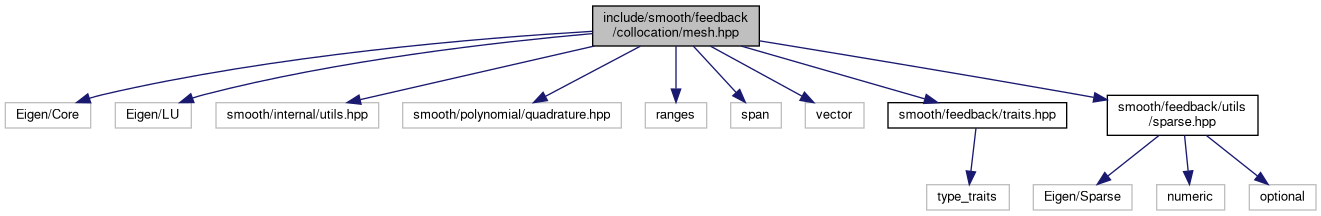
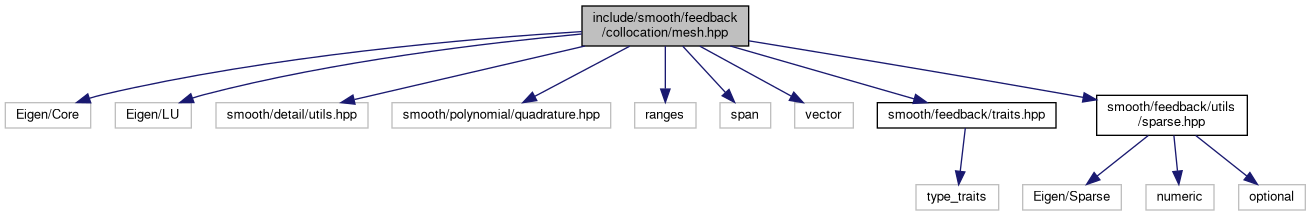
deploy: 31db0d32a921ece2edfa6fbcd71830717a5b4ad9

diff --git a/ocp__to__qp_8hpp.html b/ocp__to__qp_8hpp.html
@@ -93,28 +93,28 @@ Include dependency graph for ocp_to_qp.hpp:</div>
 <div class="dyncontent">
 <div class="center"><img src="ocp__to__qp_8hpp__incl.png" border="0" usemap="#ainclude_2smooth_2feedback_2ocp__to__qp_8hpp" alt=""/></div>
 <map name="ainclude_2smooth_2feedback_2ocp__to__qp_8hpp" id="ainclude_2smooth_2feedback_2ocp__to__qp_8hpp">
-<area shape="rect" title="Formulate optimal control problem as a quadratic program." alt="" coords="966,5,1133,47"/>
-<area shape="rect" title=" " alt="" coords="953,251,1039,278"/>
-<area shape="rect" title=" " alt="" coords="1165,169,1275,196"/>
-<area shape="rect" href="mesh_8hpp.html" title="Refinable Legendre&#45;Gauss&#45;Radau mesh of time interval [0, 1]." alt="" coords="644,169,788,196"/>
-<area shape="rect" href="mesh__function_8hpp.html" title="Evaluate transform&#45;like functions and derivatives on collocation points." alt="" coords="875,95,1072,121"/>
-<area shape="rect" href="ocp_8hpp.html" title="Optimal control problem definition." alt="" coords="1335,95,1401,121"/>
-<area shape="rect" href="qp_8hpp.html" title="Quadratic Program definition." alt="" coords="1097,95,1157,121"/>
-<area shape="rect" title=" " alt="" coords="678,251,754,278"/>
-<area shape="rect" title=" " alt="" coords="5,251,168,278"/>
-<area shape="rect" title=" " alt="" coords="192,251,411,278"/>
-<area shape="rect" title=" " alt="" coords="435,251,496,278"/>
-<area shape="rect" title=" " alt="" coords="520,251,571,278"/>
-<area shape="rect" title=" " alt="" coords="595,251,653,278"/>
-<area shape="rect" href="traits_8hpp_source.html" title=" " alt="" coords="1352,251,1531,278"/>
-<area shape="rect" href="sparse_8hpp.html" title="Sparse matrix utilities." alt="" coords="778,244,929,285"/>
-<area shape="rect" title=" " alt="" coords="1400,333,1483,360"/>
-<area shape="rect" title=" " alt="" coords="1027,333,1125,360"/>
-<area shape="rect" title=" " alt="" coords="773,333,841,360"/>
-<area shape="rect" title=" " alt="" coords="865,333,932,360"/>
-<area shape="rect" title=" " alt="" coords="994,169,1089,196"/>
-<area shape="rect" title=" " alt="" coords="1351,169,1497,196"/>
-<area shape="rect" title=" " alt="" coords="1521,169,1593,196"/>
+<area shape="rect" title="Formulate optimal control problem as a quadratic program." alt="" coords="955,5,1122,47"/>
+<area shape="rect" title=" " alt="" coords="943,251,1028,278"/>
+<area shape="rect" title=" " alt="" coords="1154,169,1265,196"/>
+<area shape="rect" href="mesh_8hpp.html" title="Refinable Legendre&#45;Gauss&#45;Radau mesh of time interval [0, 1]." alt="" coords="633,169,777,196"/>
+<area shape="rect" href="mesh__function_8hpp.html" title="Evaluate transform&#45;like functions and derivatives on collocation points." alt="" coords="864,95,1061,121"/>
+<area shape="rect" href="ocp_8hpp.html" title="Optimal control problem definition." alt="" coords="1324,95,1391,121"/>
+<area shape="rect" href="qp_8hpp.html" title="Quadratic Program definition." alt="" coords="1086,95,1146,121"/>
+<area shape="rect" title=" " alt="" coords="667,251,743,278"/>
+<area shape="rect" title=" " alt="" coords="5,251,157,278"/>
+<area shape="rect" title=" " alt="" coords="181,251,400,278"/>
+<area shape="rect" title=" " alt="" coords="424,251,485,278"/>
+<area shape="rect" title=" " alt="" coords="509,251,560,278"/>
+<area shape="rect" title=" " alt="" coords="584,251,643,278"/>
+<area shape="rect" href="traits_8hpp_source.html" title=" " alt="" coords="1341,251,1520,278"/>
+<area shape="rect" href="sparse_8hpp.html" title="Sparse matrix utilities." alt="" coords="767,244,918,285"/>
+<area shape="rect" title=" " alt="" coords="1389,333,1472,360"/>
+<area shape="rect" title=" " alt="" coords="1016,333,1115,360"/>
+<area shape="rect" title=" " alt="" coords="762,333,830,360"/>
+<area shape="rect" title=" " alt="" coords="855,333,921,360"/>
+<area shape="rect" title=" " alt="" coords="983,169,1078,196"/>
+<area shape="rect" title=" " alt="" coords="1341,169,1486,196"/>
+<area shape="rect" title=" " alt="" coords="1511,169,1583,196"/>
 </map>
 </div>
 </div><div class="textblock"><div class="dynheader">

diff --git a/mesh_8hpp.html b/mesh_8hpp.html
@@ -86,7 +86,7 @@ $(function() {
 <a href="#details">More...</a></p>
 <div class="textblock"><code>#include &lt;Eigen/Core&gt;</code><br />
 <code>#include &lt;Eigen/LU&gt;</code><br />
-<code>#include &lt;smooth/internal/utils.hpp&gt;</code><br />
+<code>#include &lt;smooth/detail/utils.hpp&gt;</code><br />
 <code>#include &lt;smooth/polynomial/quadrature.hpp&gt;</code><br />
 <code>#include &lt;ranges&gt;</code><br />
 <code>#include &lt;span&gt;</code><br />
@@ -98,20 +98,20 @@ Include dependency graph for mesh.hpp:</div>
 <div class="dyncontent">
 <div class="center"><img src="mesh_8hpp__incl.png" border="0" usemap="#ainclude_2smooth_2feedback_2collocation_2mesh_8hpp" alt=""/></div>
 <map name="ainclude_2smooth_2feedback_2collocation_2mesh_8hpp" id="ainclude_2smooth_2feedback_2collocation_2mesh_8hpp">
-<area shape="rect" title="Refinable Legendre&#45;Gauss&#45;Radau mesh of time interval [0, 1]." alt="" coords="593,5,759,47"/>
+<area shape="rect" title="Refinable Legendre&#45;Gauss&#45;Radau mesh of time interval [0, 1]." alt="" coords="582,5,749,47"/>
 <area shape="rect" title=" " alt="" coords="5,102,91,129"/>
 <area shape="rect" title=" " alt="" coords="115,102,191,129"/>
-<area shape="rect" title=" " alt="" coords="216,102,379,129"/>
-<area shape="rect" title=" " alt="" coords="403,102,621,129"/>
-<area shape="rect" title=" " alt="" coords="645,102,707,129"/>
-<area shape="rect" title=" " alt="" coords="731,102,781,129"/>
-<area shape="rect" title=" " alt="" coords="805,102,864,129"/>
-<area shape="rect" href="traits_8hpp_source.html" title=" " alt="" coords="888,102,1067,129"/>
-<area shape="rect" href="sparse_8hpp.html" title="Sparse matrix utilities." alt="" coords="1107,95,1258,136"/>
-<area shape="rect" title=" " alt="" coords="927,184,1009,211"/>
-<area shape="rect" title=" " alt="" coords="1033,184,1132,211"/>
-<area shape="rect" title=" " alt="" coords="1157,184,1225,211"/>
-<area shape="rect" title=" " alt="" coords="1249,184,1316,211"/>
+<area shape="rect" title=" " alt="" coords="216,102,368,129"/>
+<area shape="rect" title=" " alt="" coords="392,102,611,129"/>
+<area shape="rect" title=" " alt="" coords="635,102,696,129"/>
+<area shape="rect" title=" " alt="" coords="720,102,771,129"/>
+<area shape="rect" title=" " alt="" coords="795,102,853,129"/>
+<area shape="rect" href="traits_8hpp_source.html" title=" " alt="" coords="877,102,1056,129"/>
+<area shape="rect" href="sparse_8hpp.html" title="Sparse matrix utilities." alt="" coords="1097,95,1247,136"/>
+<area shape="rect" title=" " alt="" coords="916,184,999,211"/>
+<area shape="rect" title=" " alt="" coords="1023,184,1121,211"/>
+<area shape="rect" title=" " alt="" coords="1146,184,1214,211"/>
+<area shape="rect" title=" " alt="" coords="1239,184,1305,211"/>
 </map>
 </div>
 </div><div class="textblock"><div class="dynheader">

diff --git a/dyn__error_8hpp.html b/dyn__error_8hpp.html
@@ -89,21 +89,21 @@ Include dependency graph for dyn_error.hpp:</div>
 <div class="dyncontent">
 <div class="center"><img src="dyn__error_8hpp__incl.png" border="0" usemap="#ainclude_2smooth_2feedback_2collocation_2dyn__error_8hpp" alt=""/></div>
 <map name="ainclude_2smooth_2feedback_2collocation_2dyn__error_8hpp" id="ainclude_2smooth_2feedback_2collocation_2dyn__error_8hpp">
-<area shape="rect" title="Collocation dynamics constraints." alt="" coords="277,5,446,47"/>
+<area shape="rect" title="Collocation dynamics constraints." alt="" coords="271,5,441,47"/>
 <area shape="rect" title=" " alt="" coords="5,177,91,203"/>
-<area shape="rect" href="mesh_8hpp.html" title="Refinable Legendre&#45;Gauss&#45;Radau mesh of time interval [0, 1]." alt="" coords="554,95,633,121"/>
+<area shape="rect" href="mesh_8hpp.html" title="Refinable Legendre&#45;Gauss&#45;Radau mesh of time interval [0, 1]." alt="" coords="543,95,622,121"/>
 <area shape="rect" title=" " alt="" coords="115,177,191,203"/>
-<area shape="rect" title=" " alt="" coords="216,177,379,203"/>
-<area shape="rect" title=" " alt="" coords="403,177,621,203"/>
-<area shape="rect" title=" " alt="" coords="645,177,707,203"/>
-<area shape="rect" title=" " alt="" coords="731,177,781,203"/>
-<area shape="rect" title=" " alt="" coords="805,177,864,203"/>
-<area shape="rect" href="traits_8hpp_source.html" title=" " alt="" coords="888,177,1067,203"/>
-<area shape="rect" href="sparse_8hpp.html" title="Sparse matrix utilities." alt="" coords="1107,169,1258,211"/>
-<area shape="rect" title=" " alt="" coords="927,259,1009,285"/>
-<area shape="rect" title=" " alt="" coords="1033,259,1132,285"/>
-<area shape="rect" title=" " alt="" coords="1157,259,1225,285"/>
-<area shape="rect" title=" " alt="" coords="1249,259,1316,285"/>
+<area shape="rect" title=" " alt="" coords="216,177,368,203"/>
+<area shape="rect" title=" " alt="" coords="392,177,611,203"/>
+<area shape="rect" title=" " alt="" coords="635,177,696,203"/>
+<area shape="rect" title=" " alt="" coords="720,177,771,203"/>
+<area shape="rect" title=" " alt="" coords="795,177,853,203"/>
+<area shape="rect" href="traits_8hpp_source.html" title=" " alt="" coords="877,177,1056,203"/>
+<area shape="rect" href="sparse_8hpp.html" title="Sparse matrix utilities." alt="" coords="1097,169,1247,211"/>
+<area shape="rect" title=" " alt="" coords="916,259,999,285"/>
+<area shape="rect" title=" " alt="" coords="1023,259,1121,285"/>
+<area shape="rect" title=" " alt="" coords="1146,259,1214,285"/>
+<area shape="rect" title=" " alt="" coords="1239,259,1305,285"/>
 </map>
 </div>
 </div>

diff --git a/mesh__function_8hpp.html b/mesh__function_8hpp.html
@@ -96,18 +96,18 @@ Include dependency graph for mesh_function.hpp:</div>
 <area shape="rect" title="Evaluate transform&#45;like functions and derivatives on collocation points." alt="" coords="151,5,352,47"/>
 <area shape="rect" title=" " alt="" coords="5,95,100,121"/>
 <area shape="rect" title=" " alt="" coords="90,259,189,285"/>
-<area shape="rect" title=" " alt="" coords="707,95,817,121"/>
-<area shape="rect" href="mesh_8hpp.html" title="Refinable Legendre&#45;Gauss&#45;Radau mesh of time interval [0, 1]." alt="" coords="604,95,683,121"/>
+<area shape="rect" title=" " alt="" coords="701,95,812,121"/>
+<area shape="rect" href="mesh_8hpp.html" title="Refinable Legendre&#45;Gauss&#45;Radau mesh of time interval [0, 1]." alt="" coords="599,95,677,121"/>
 <area shape="rect" href="sparse_8hpp.html" title="Sparse matrix utilities." alt="" coords="176,169,327,211"/>
 <area shape="rect" title=" " alt="" coords="351,177,437,203"/>
 <area shape="rect" title=" " alt="" coords="461,177,537,203"/>
-<area shape="rect" title=" " alt="" coords="562,177,725,203"/>
-<area shape="rect" title=" " alt="" coords="749,177,967,203"/>
-<area shape="rect" title=" " alt="" coords="991,177,1053,203"/>
-<area shape="rect" title=" " alt="" coords="1077,177,1127,203"/>
-<area shape="rect" title=" " alt="" coords="1151,177,1210,203"/>
-<area shape="rect" href="traits_8hpp_source.html" title=" " alt="" coords="1234,177,1413,203"/>
-<area shape="rect" title=" " alt="" coords="1282,259,1365,285"/>
+<area shape="rect" title=" " alt="" coords="562,177,714,203"/>
+<area shape="rect" title=" " alt="" coords="738,177,957,203"/>
+<area shape="rect" title=" " alt="" coords="981,177,1042,203"/>
+<area shape="rect" title=" " alt="" coords="1066,177,1117,203"/>
+<area shape="rect" title=" " alt="" coords="1141,177,1199,203"/>
+<area shape="rect" href="traits_8hpp_source.html" title=" " alt="" coords="1223,177,1402,203"/>
+<area shape="rect" title=" " alt="" coords="1271,259,1354,285"/>
 <area shape="rect" title=" " alt="" coords="215,259,283,285"/>
 <area shape="rect" title=" " alt="" coords="307,259,374,285"/>
 </map>

diff --git a/ocp__to__nlp_8hpp.html b/ocp__to__nlp_8hpp.html
@@ -101,18 +101,18 @@ Include dependency graph for ocp_to_nlp.hpp:</div>
 <area shape="rect" href="nlp_8hpp.html" title="Nonlinear program definition." alt="" coords="85,169,147,196"/>
 <area shape="rect" href="ocp_8hpp.html" title="Optimal control problem definition." alt="" coords="369,95,436,121"/>
 <area shape="rect" title=" " alt="" coords="739,251,815,278"/>
-<area shape="rect" title=" " alt="" coords="840,251,1003,278"/>
-<area shape="rect" title=" " alt="" coords="1027,251,1245,278"/>
+<area shape="rect" title=" " alt="" coords="840,251,992,278"/>
+<area shape="rect" title=" " alt="" coords="1016,251,1235,278"/>
 <area shape="rect" title=" " alt="" coords="496,251,557,278"/>
 <area shape="rect" title=" " alt="" coords="581,251,632,278"/>
 <area shape="rect" title=" " alt="" coords="656,251,715,278"/>
 <area shape="rect" href="traits_8hpp_source.html" title=" " alt="" coords="293,251,472,278"/>
-<area shape="rect" href="sparse_8hpp.html" title="Sparse matrix utilities." alt="" coords="1321,244,1471,285"/>
+<area shape="rect" href="sparse_8hpp.html" title="Sparse matrix utilities." alt="" coords="1310,244,1461,285"/>
 <area shape="rect" title=" " alt="" coords="341,333,424,360"/>
-<area shape="rect" title=" " alt="" coords="1233,333,1332,360"/>
-<area shape="rect" title=" " alt="" coords="1362,333,1430,360"/>
-<area shape="rect" title=" " alt="" coords="796,333,863,360"/>
-<area shape="rect" title=" " alt="" coords="1371,169,1466,196"/>
+<area shape="rect" title=" " alt="" coords="1223,333,1321,360"/>
+<area shape="rect" title=" " alt="" coords="1351,333,1419,360"/>
+<area shape="rect" title=" " alt="" coords="791,333,857,360"/>
+<area shape="rect" title=" " alt="" coords="1361,169,1455,196"/>
 <area shape="rect" title=" " alt="" coords="590,169,701,196"/>
 <area shape="rect" title=" " alt="" coords="5,251,59,278"/>
 <area shape="rect" title=" " alt="" coords="223,169,295,196"/>

diff --git a/mesh_8hpp_source.html b/mesh_8hpp_source.html
@@ -107,7 +107,7 @@ $(function() {
 <div class="line"><a id="l00028" name="l00028"></a><span class="lineno">   28</span> </div>
 <div class="line"><a id="l00034" name="l00034"></a><span class="lineno">   34</span><span class="preprocessor">#include &lt;Eigen/Core&gt;</span></div>
 <div class="line"><a id="l00035" name="l00035"></a><span class="lineno">   35</span><span class="preprocessor">#include &lt;Eigen/LU&gt;</span></div>
-<div class="line"><a id="l00036" name="l00036"></a><span class="lineno">   36</span><span class="preprocessor">#include &lt;smooth/internal/utils.hpp&gt;</span></div>
+<div class="line"><a id="l00036" name="l00036"></a><span class="lineno">   36</span><span class="preprocessor">#include &lt;smooth/detail/utils.hpp&gt;</span></div>
 <div class="line"><a id="l00037" name="l00037"></a><span class="lineno">   37</span><span class="preprocessor">#include &lt;smooth/polynomial/quadrature.hpp&gt;</span></div>
 <div class="line"><a id="l00038" name="l00038"></a><span class="lineno">   38</span> </div>
 <div class="line"><a id="l00039" name="l00039"></a><span class="lineno">   39</span><span class="preprocessor">#include &lt;ranges&gt;</span></div>
